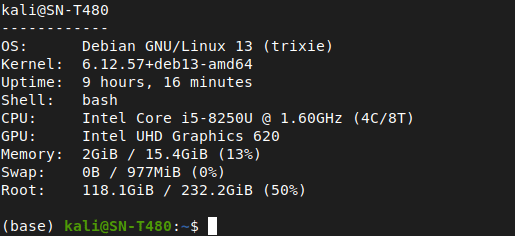
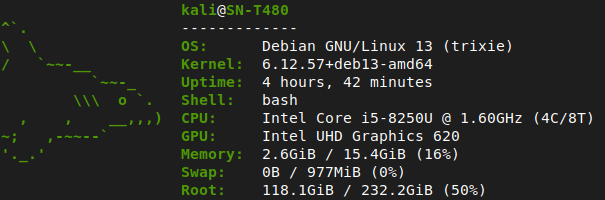
Update screenshots

Changed region(s): [[0.0, 0.0, 0.9942, 1.0], [0.2796, 0.0, 0.4971, 0.09], [0.0, 0.78, 0.0932, 0.84]]

diff --git a/README.md b/README.md
@@ -49,34 +49,30 @@ Simply run `shorkfetch` to use.
 
 <table style="table-layout: fixed; width: 100%;">
   <tr>
+    <td style="width: 50%; text-align: center;"><img src="screenshots/sharktastica_desktop_debian-13_art_col.png" style="width: 100%;" /></td>
+    <td style="width: 50%; text-align: center;"><img src="screenshots/sharktastica_desktop_debian-13_art.png" style="width: 100%;" /></td>
+  </tr>
+  <tr>
+    <td style="width: 50%;">Custom PC running Debian 13 (+ ASCII art & accent colour)</td>
+    <td style="width: 50%;">Custom PC running Debian 13 (+ ASCII art)</td>
+  </tr>
+  <tr>
+    <td style="width: 50%; text-align: center;"><img src="screenshots/sharktastica_desktop_debian-13_col.png" style="width: 100%;" /></td>
     <td style="width: 50%; text-align: center;"><img src="screenshots/sharktastica_desktop_debian-13.png" style="width: 100%;" /></td>
+  </tr>
+  <tr>
+    <td style="width: 50%;">Custom PC running Debian 13 (+ accent colour)</td>
+    <td style="width: 50%;">Custom PC running Debian 13 (no customisation)</td>
+  </tr>
+</table>
+
+<table style="table-layout: fixed; width: 100%;">
+  <tr>
+    <td style="width: 50%; text-align: center;"><img src="screenshots/vmware_shork-486.png" style="width: 100%;" /></td>
     <td style="width: 50%; text-align: center;"><img src="screenshots/t480_debian-13.png" style="width: 100%;" /></td>
   </tr>
   <tr>
-    <td style="width: 50%;">Custom desktop running Debian 13</td>
-    <td style="width: 50%;">Lenovo ThinkPad T480 running Debian 13</td>
-  </tr>
-</table>
-
-<table style="table-layout: fixed; width: 100%;">
-  <tr>
-    <td style="width: 50%; text-align: center;"><img src="screenshots/86box_mmx-voodoo-3-5436_shork-486.png" style="width: 100%;" /></td>
-    <td style="width: 50%; text-align: center;"><img src="screenshots/86box_6x86-2164w_shork-486.png" style="width: 100%;" /></td>
-  </tr>
-  <tr>
-    <td style="width: 50%;">86Box emulating Intel Pentium MMX + 2 GPUs running SHORK 486</td>
-    <td style="width: 50%;">86Box emulating Cyrix 6x86 + 1 GPU running SHORK 486</td>
-  </tr>
-</table>
-
-
-<table style="table-layout: fixed; width: 100%;">
-  <tr>
-    <td style="width: 50%; text-align: center;"><img src="screenshots/86box_5x86_shork-486.png" style="width: 100%;" /></td>
-    <td style="width: 50%; text-align: center;"><img src="screenshots/vmware_shork-486.png" style="width: 100%;" /></td>
-  </tr>
-  <tr>
-    <td style="width: 50%;">86Box emulating Cyrix 5x86 running SHORK 486</td>
     <td style="width: 50%;">VMware VM running SHORK 486</td>
+    <td style="width: 50%;">Lenovo ThinkPad T480 running Debian 13</td>
   </tr>
 </table>
